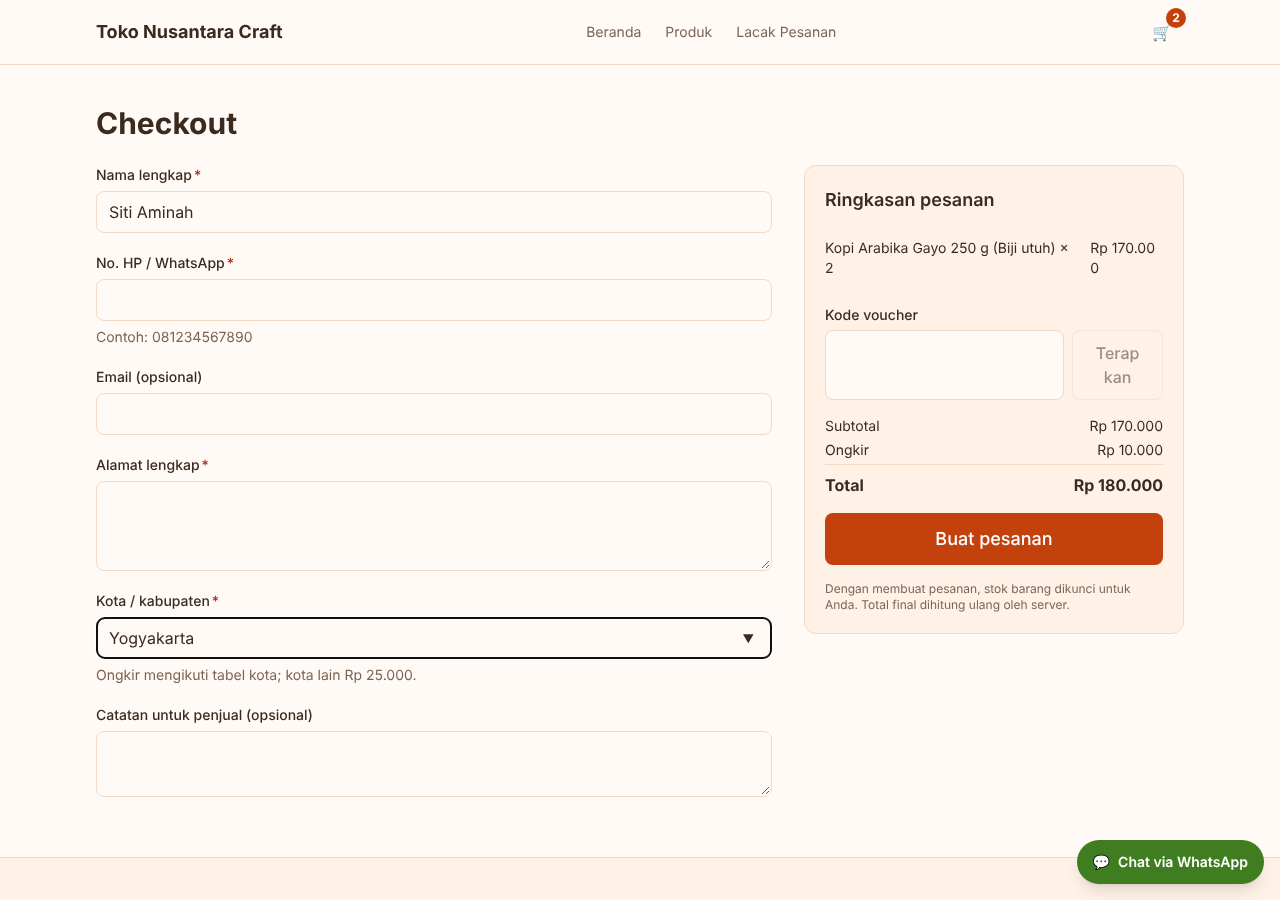
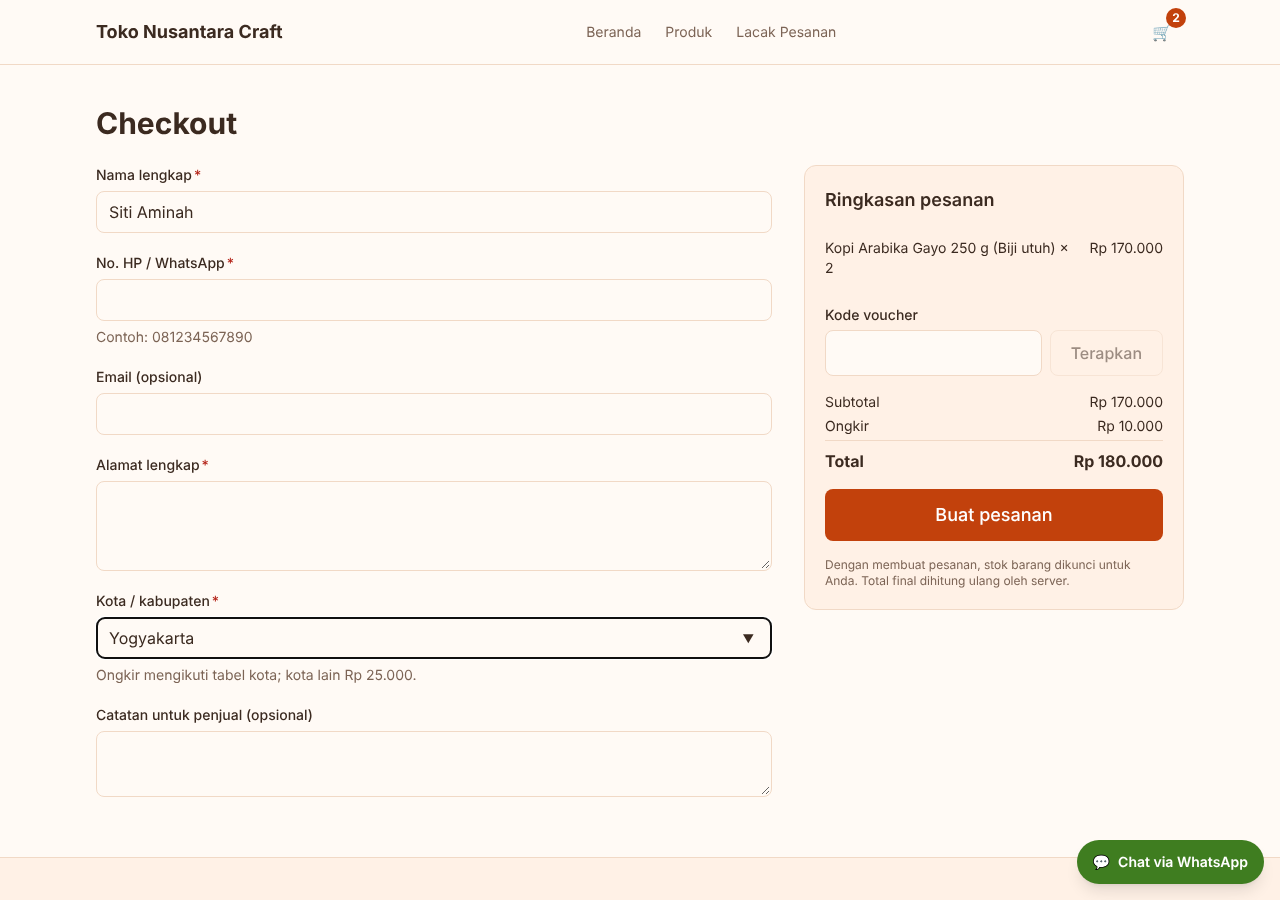
[T8] WIP: README root & toko, perbaikan UI nilai rupiah/tombol Terapkan, screenshot toko
Claude-Session: https://claude.ai/code/session_018KHqGbbH4XiAuYR3s9DrdD

Changed region(s): [[0.625, 0.4356, 0.9062, 0.6844], [0.8125, 0.3733, 0.9062, 0.4044], [0.8438, 0.2489, 0.9062, 0.28]]

diff --git a/apps/toko-online/components/CheckoutForm.tsx b/apps/toko-online/components/CheckoutForm.tsx
@@ -102,18 +102,18 @@ function Konfirmasi({ s }: { s: Sukses }) {
                 {b.produkNama}
                 {b.varianNama !== "Standar" && ` (${b.varianNama})`} × {b.qty}
               </span>
-              <span>{rupiah(b.jumlah)}</span>
+              <span className="whitespace-nowrap">{rupiah(b.jumlah)}</span>
             </li>
           ))}
         </ul>
         <dl className="mt-3 space-y-1 text-sm">
           <div className="flex justify-between">
             <dt>Subtotal</dt>
-            <dd>{rupiah(s.subtotal)}</dd>
+            <dd className="whitespace-nowrap">{rupiah(s.subtotal)}</dd>
           </div>
           <div className="flex justify-between">
             <dt>Ongkir</dt>
-            <dd>{rupiah(s.ongkir)}</dd>
+            <dd className="whitespace-nowrap">{rupiah(s.ongkir)}</dd>
           </div>
           {s.diskon > 0 && (
             <div className="flex justify-between">
@@ -123,7 +123,9 @@ function Konfirmasi({ s }: { s: Sukses }) {
           )}
           <div className="flex justify-between text-base font-bold text-fg">
             <dt>Total bayar</dt>
-            <dd data-testid="total-bayar">{rupiah(s.total)}</dd>
+            <dd data-testid="total-bayar" className="whitespace-nowrap">
+              {rupiah(s.total)}
+            </dd>
           </div>
         </dl>
       </section>
@@ -418,7 +420,9 @@ export function CheckoutForm({ kotaOpsi, ongkirBawaan }: Props) {
                       <span className="block text-danger">Stok tersisa {b.stok}</span>
                     )}
                   </span>
-                  <span>{b.status === "ok" ? rupiah(b.jumlah) : "—"}</span>
+                  <span className="whitespace-nowrap">
+                    {b.status === "ok" ? rupiah(b.jumlah) : "—"}
+                  </span>
                 </li>
               ))}
             </ul>
@@ -433,11 +437,12 @@ export function CheckoutForm({ kotaOpsi, ongkirBawaan }: Props) {
                   onChange={(e) => setVoucherIsi(e.target.value)}
                   maxLength={32}
                   autoComplete="off"
-                  className={input}
+                  className={`${input} min-w-0`}
                 />
                 <Button
                   type="button"
                   variant="secondary"
+                  className="shrink-0 whitespace-nowrap"
                   onClick={() => setVoucher(voucherIsi.trim())}
                   disabled={!voucherIsi.trim()}
                 >
@@ -469,11 +474,15 @@ export function CheckoutForm({ kotaOpsi, ongkirBawaan }: Props) {
             <dl className="space-y-1 text-sm" aria-live="polite">
               <div className="flex justify-between">
                 <dt>Subtotal</dt>
-                <dd data-testid="co-subtotal">{rupiah(ringkasan.subtotal)}</dd>
+                <dd data-testid="co-subtotal" className="whitespace-nowrap">
+                  {rupiah(ringkasan.subtotal)}
+                </dd>
               </div>
               <div className="flex justify-between">
                 <dt>Ongkir</dt>
-                <dd data-testid="co-ongkir">{rupiah(ringkasan.ongkir)}</dd>
+                <dd data-testid="co-ongkir" className="whitespace-nowrap">
+                  {rupiah(ringkasan.ongkir)}
+                </dd>
               </div>
               {ringkasan.diskon > 0 && (
                 <div className="flex justify-between text-success">
@@ -483,7 +492,9 @@ export function CheckoutForm({ kotaOpsi, ongkirBawaan }: Props) {
               )}
               <div className="flex justify-between border-t border-border pt-2 text-base font-bold text-fg">
                 <dt>Total</dt>
-                <dd data-testid="co-total">{rupiah(ringkasan.total)}</dd>
+                <dd data-testid="co-total" className="whitespace-nowrap">
+                  {rupiah(ringkasan.total)}
+                </dd>
               </div>
             </dl>
             {ringkasan.masalah

diff --git a/apps/toko-online/components/FormLacak.tsx b/apps/toko-online/components/FormLacak.tsx
@@ -179,18 +179,18 @@ export function FormLacak({ kodeAwal = "" }: { kodeAwal?: string }) {
                     {b.produkNama}
                     {b.varianNama !== "Standar" && ` (${b.varianNama})`} × {b.qty}
                   </span>
-                  <span>{rupiah(b.lineTotal)}</span>
+                  <span className="whitespace-nowrap">{rupiah(b.lineTotal)}</span>
                 </li>
               ))}
             </ul>
             <dl className="mt-3 space-y-1 text-sm">
               <div className="flex justify-between">
                 <dt>Subtotal</dt>
-                <dd>{rupiah(pesanan.subtotal)}</dd>
+                <dd className="whitespace-nowrap">{rupiah(pesanan.subtotal)}</dd>
               </div>
               <div className="flex justify-between">
                 <dt>Ongkir</dt>
-                <dd>{rupiah(pesanan.ongkir)}</dd>
+                <dd className="whitespace-nowrap">{rupiah(pesanan.ongkir)}</dd>
               </div>
               {pesanan.diskon > 0 && (
                 <div className="flex justify-between">
@@ -200,7 +200,9 @@ export function FormLacak({ kodeAwal = "" }: { kodeAwal?: string }) {
               )}
               <div className="flex justify-between text-base font-bold text-fg">
                 <dt>Total</dt>
-                <dd data-testid="hasil-total">{rupiah(pesanan.total)}</dd>
+                <dd data-testid="hasil-total" className="whitespace-nowrap">
+                  {rupiah(pesanan.total)}
+                </dd>
               </div>
             </dl>
           </div>

diff --git a/apps/toko-online/app/admin/(panel)/pesanan/[id]/page.tsx b/apps/toko-online/app/admin/(panel)/pesanan/[id]/page.tsx
@@ -157,18 +157,18 @@ export default async function DetailPesanan({
                     {i.productName}
                     {i.variantName !== "Standar" && ` (${i.variantName})`} × {i.qty}
                   </span>
-                  <span>{rupiah(i.lineTotal)}</span>
+                  <span className="whitespace-nowrap">{rupiah(i.lineTotal)}</span>
                 </li>
               ))}
             </ul>
             <dl className="mt-3 space-y-1 text-sm">
               <div className="flex justify-between">
                 <dt>Subtotal</dt>
-                <dd>{rupiah(o.subtotal)}</dd>
+                <dd className="whitespace-nowrap">{rupiah(o.subtotal)}</dd>
               </div>
               <div className="flex justify-between">
                 <dt>Ongkir</dt>
-                <dd>{rupiah(o.shippingCost)}</dd>
+                <dd className="whitespace-nowrap">{rupiah(o.shippingCost)}</dd>
               </div>
               {o.discount > 0 && (
                 <div className="flex justify-between">
@@ -178,7 +178,9 @@ export default async function DetailPesanan({
               )}
               <div className="flex justify-between text-base font-bold text-fg">
                 <dt>Total</dt>
-                <dd data-testid="total">{rupiah(o.total)}</dd>
+                <dd data-testid="total" className="whitespace-nowrap">
+                  {rupiah(o.total)}
+                </dd>
               </div>
             </dl>
           </section>

diff --git a/apps/toko-online/app/admin/(panel)/pesanan/[id]/invoice/page.tsx b/apps/toko-online/app/admin/(panel)/pesanan/[id]/invoice/page.tsx
@@ -103,11 +103,11 @@ export default async function Invoice({ params }: { params: Promise<{ id: string
       <dl className="ml-auto mt-4 w-64 space-y-1 text-sm">
         <div className="flex justify-between">
           <dt>Subtotal</dt>
-          <dd>{rupiah(o.subtotal)}</dd>
+          <dd className="whitespace-nowrap">{rupiah(o.subtotal)}</dd>
         </div>
         <div className="flex justify-between">
           <dt>Ongkir</dt>
-          <dd>{rupiah(o.shippingCost)}</dd>
+          <dd className="whitespace-nowrap">{rupiah(o.shippingCost)}</dd>
         </div>
         {o.discount > 0 && (
           <div className="flex justify-between">
@@ -117,7 +117,9 @@ export default async function Invoice({ params }: { params: Promise<{ id: string
         )}
         <div className="flex justify-between border-t border-gray-400 pt-1 text-base font-bold">
           <dt>Total</dt>
-          <dd data-testid="inv-total">{rupiah(o.total)}</dd>
+          <dd data-testid="inv-total" className="whitespace-nowrap">
+            {rupiah(o.total)}
+          </dd>
         </div>
       </dl>
       {!lunas && o.status !== "DIBATALKAN" && s.rekening.length > 0 && (

diff --git a/apps/toko-online/components/KeranjangView.tsx b/apps/toko-online/components/KeranjangView.tsx
@@ -241,7 +241,9 @@ export function KeranjangView() {
           </div>
           <div className="flex justify-between text-base font-bold text-fg">
             <dt>Subtotal</dt>
-            <dd data-testid="subtotal">{rupiah(subtotal)}</dd>
+            <dd data-testid="subtotal" className="whitespace-nowrap">
+              {rupiah(subtotal)}
+            </dd>
           </div>
         </dl>
         <p className="mt-2 text-xs text-muted">

diff --git a/README.md b/README.md
@@ -1,28 +1,66 @@
 # 5 Template Website Siap Jual
 
-Monorepo berisi 5 template website berbahasa Indonesia yang siap pakai atau tinggal dimodifikasi:
+Monorepo berisi **5 template website berbahasa Indonesia** yang siap pakai atau tinggal dimodifikasi. Semua brand, nama, produk, rekening, dan data pada template ini **fiktif** (gambar demo = SVG placeholder buatan sendiri). Dibangun dengan Next.js 16, React 19, TypeScript, Tailwind CSS v4, Prisma + SQLite (app ber-DB), dan diuji dengan Vitest + Playwright.
 
-| App | Port |
-|---|---|
-| `apps/landing-page` | 3001 |
-| `apps/company-profile` | 3002 |
-| `apps/undangan` | 3003 |
-| `apps/sekolah` | 3004 |
-| `apps/toko-online` | 3005 |
+| App | Port | Cocok untuk | Fitur utama | Database | Panel admin |
+|---|---|---|---|---|---|
+| [`apps/landing-page`](apps/landing-page) | 3001 | Produk/jasa tunggal | Hero, fitur, paket harga, testimoni, FAQ, form lead (honeypot + rate limit), WhatsApp | SQLite (lead) | Ya (password) — daftar lead + ekspor CSV |
+| [`apps/company-profile`](apps/company-profile) | 3002 | Perusahaan/agensi | Layanan, portofolio (filter), blog Markdown, kontak, **dwibahasa ID/EN**, SEO lengkap | SQLite (pesan) | Ya (password) — pesan masuk + CSV |
+| [`apps/undangan`](apps/undangan) | 3003 | Pernikahan, aqiqah, khitan | Cover, mempelai, acara + countdown, galeri, RSVP, ucapan, amplop digital, 3 tema | SQLite | Ya (password) — tamu/RSVP/ucapan |
+| [`apps/sekolah`](apps/sekolah) | 3004 | Sekolah/pesantren/yayasan | Profil, guru, berita, agenda, galeri, **PPDB online**, **donasi/infaq**, CRUD konten | SQLite | Ya (NextAuth, peran ADMIN/EDITOR) |
+| [`apps/toko-online`](apps/toko-online) | 3005 | Toko UMKM | Katalog (filter/cari/urut), varian & stok, keranjang, checkout dengan voucher & ongkir, lacak pesanan, bukti bayar, invoice, CSV | SQLite | Ya (NextAuth, peran ADMIN/STAFF) |
 
-Paket bersama: `packages/config`, `packages/ui`, `packages/core`.
+Paket bersama: [`packages/config`](packages/config) (tsconfig, ESLint, Prettier, Playwright, tema), [`packages/ui`](packages/ui) (komponen UI), [`packages/core`](packages/core) (validasi, sanitasi, rate limit, honeypot, unggahan aman, header keamanan).
+
+## Tampilan
+
+| Landing Page | Company Profile | Undangan |
+|---|---|---|
+| ![Landing page](apps/landing-page/docs/screenshots/desktop-hero.png) | ![Company profile](apps/company-profile/docs/screenshots/beranda-id.png) | ![Undangan](apps/undangan/docs/screenshots/cover.png) |
+
+| Sekolah | Toko Online | Admin Toko |
+|---|---|---|
+| ![Sekolah](apps/sekolah/docs/screenshots/beranda.png) | ![Toko online](apps/toko-online/docs/screenshots/beranda.png) | ![Admin toko](apps/toko-online/docs/screenshots/admin-dashboard.png) |
+
+Screenshot lengkap tiap app ada di `apps/<app>/docs/screenshots/` dan ditampilkan di README masing-masing.
 
 ## Memulai
 
+Prasyarat: Node 22 (`nvm use`), npm 10.
+
 ```bash
-nvm use          # Node 22
 npm ci
-npm run setup    # prisma generate + migrate + seed (app ber-DB)
-npm run dev:all  # jalankan semua app (3001–3005)
+# Salin & isi env tiap app (password admin ≥ 12 karakter, NEXTAUTH_SECRET ≥ 32 karakter acak):
+for a in landing-page company-profile undangan sekolah toko-online; do cp apps/$a/.env.example apps/$a/.env; done
+#   buat rahasia:  node -e "console.log(require('crypto').randomBytes(32).toString('base64url'))"
+npm run setup      # prisma generate + migrate + seed demo (app ber-DB)
+npm run dev:all    # jalankan semua app: http://localhost:3001 … 3005
 ```
 
-Skrip lain: `build:all`, `test`, `test:e2e`, `test:all`, `lint`, `typecheck`. Semuanya melewati app yang belum ada.
+Skrip lain (semuanya melewati app yang belum ada): `npm run build:all`, `npm test` (unit), `npm run test:e2e` (Playwright), `npm run test:all` (keduanya), `npm run lint`, `npm run typecheck`, `npm run format:check`.
 
-Panduan memodifikasi template: [`docs/CARA-MODIF.md`](docs/CARA-MODIF.md). Rencana pengerjaan di `PLAN.md`, status di `PROGRESS.md`.
+## Akun demo
 
-> Semua brand dan data pada template ini fiktif.
+Tidak ada kredensial bawaan: akun dibuat dari env saat `npm run setup`, dan login admin otomatis **nonaktif** bila rahasianya kosong (fail closed).
+
+| App | Login admin | Diatur di `.env` |
+|---|---|---|
+| Landing Page | `/admin/login` — hanya password | `ADMIN_PASSWORD`, `ADMIN_SESSION_SECRET` (≥ 32 karakter) |
+| Company Profile | `/admin/login` — hanya password | `ADMIN_PASSWORD`, `ADMIN_SESSION_SECRET` |
+| Undangan | `/admin` — hanya password | `ADMIN_PASSWORD`, `ADMIN_SESSION_SECRET` |
+| Sekolah | `/admin/login` — `admin@sekolah.example` (ADMIN), `editor@sekolah.example` (EDITOR) | `ADMIN_PASSWORD`, `EDITOR_PASSWORD`, `NEXTAUTH_SECRET` |
+| Toko Online | `/admin/login` — `admin@toko.example` (ADMIN), `staf@toko.example` (STAFF) | `ADMIN_PASSWORD`, `STAFF_PASSWORD`, `NEXTAUTH_SECRET` |
+
+Voucher demo toko: `HEMAT10`, `POTONG25K` (lihat [README toko](apps/toko-online/README.md)).
+
+## Keamanan & kualitas (ringkas)
+
+- Header keamanan (CSP ketat, `nosniff`, `frame-ancestors 'none'`, …) di semua app; tidak ada permintaan ke domain luar (font lokal/system, gambar SVG lokal).
+- Validasi masukan di server (Zod), sanitasi teks, honeypot + rate limit pada form publik, unggahan divalidasi **magic bytes** (SVG/GIF ditolak), CSV anti-formula-injection.
+- Admin: sesi dicek ulang ke database di tiap halaman/aksi, hak dari peran di DB, anti open redirect, anti-enumerasi akun.
+- Toko: harga, ongkir, diskon, dan total **dihitung ulang di server** (klien tidak dipercaya); stok & voucher dikunci atomik.
+- Tiap app punya e2e (Playwright) untuk: tanpa error konsol/CSP, tanpa overflow di 360/768/1280 px, aksesibilitas (heading, landmark, label, fokus, kontras WCAG AA), dan matriks otorisasi.
+
+Panduan memodifikasi template: [`docs/CARA-MODIF.md`](docs/CARA-MODIF.md). Rencana pengerjaan: `PLAN.md`; status: `PROGRESS.md`. Lisensi aset demo: [`CREDITS.md`](CREDITS.md).
+
+> Hasil CI GitHub dicek manual oleh pemilik repo.

diff --git a/apps/toko-online/README.md b/apps/toko-online/README.md
@@ -2,7 +2,19 @@
 
 Template toko online berbahasa Indonesia. Nama toko, produk, rekening, dan seluruh data demo **fiktif**.
 
-> Status: T1–T7 — skema + seed, **katalog**, **keranjang**, **checkout**, **lacak pesanan**, **admin produk**, **admin pesanan & pengaturan**. QA final & integrasi (T8) menyusul.
+> Status: **lengkap** (T1–T8) — katalog, keranjang, checkout, lacak pesanan, admin produk, admin pesanan & pengaturan, dan QA final.
+
+## Tampilan
+
+| Beranda | Mobile |
+|---|---|
+| ![Beranda](docs/screenshots/beranda.png) | ![Mobile](docs/screenshots/mobile-beranda.png) |
+| ![Katalog](docs/screenshots/katalog.png) | ![Detail produk](docs/screenshots/detail-produk.png) |
+| ![Keranjang](docs/screenshots/keranjang.png) | ![Checkout](docs/screenshots/checkout.png) |
+| ![Dasbor admin](docs/screenshots/admin-dashboard.png) | ![Kelola produk](docs/screenshots/admin-produk.png) |
+| ![Detail pesanan](docs/screenshots/admin-pesanan.png) | ![Pengaturan toko](docs/screenshots/admin-pengaturan.png) |
+
+Membuat ulang: `cd apps/toko-online && SCREENSHOTS=1 npx playwright test e2e/screenshots.spec.ts --project=fitur`.
 
 ## Menjalankan
 
@@ -137,6 +149,27 @@ Jaminan integritas:
 - Pengaturan: semua nilai divalidasi ulang di server dan JSON dibangun dari data tervalidasi (bukan dari klien); nama kota dinormalkan & dicek unik, nama berbahaya (`__proto__`, `constructor`, …) ditolak; WA dinormalkan ke `62…`; QRIS lewat validasi unggahan yang sama dengan gambar produk; berkas QRIS lama dibersihkan bila tak dirujuk.
 - Pencarian admin: wildcard (`%`, `_`, `\`) dicari sebagai teks biasa; kata kunci yang hanya berisi wildcard tidak cocok apa pun.
 - Voucher dikelola lewat seed/DB (UI voucher di luar cakupan template ini).
+
+## Akun demo
+
+Akun dibuat oleh `npm run setup` **hanya bila** password diisi di `.env` (min. 12 karakter; tidak ada password bawaan):
+
+| Peran | Email | Password dari |
+|---|---|---|
+| ADMIN | `admin@toko.example` (atau `ADMIN_EMAIL`) | `ADMIN_PASSWORD` |
+| STAFF | `staf@toko.example` | `STAFF_PASSWORD` |
+
+Voucher demo (seed): `HEMAT10` (10%, min Rp 100.000, maks Rp 50.000), `POTONG25K` (Rp 25.000, min Rp 200.000, kuota 100); `KADALUARSA`, `HABIS`, `NONAKTIF` untuk menguji penolakan.
+
+## Hasil QA final (T8)
+
+`e2e/qa.spec.ts` dan `e2e/admin-qa.spec.ts` merangkum pemeriksaan lintas-fitur:
+- **Halaman publik** (beranda, katalog + filter, semua produk seed, keranjang, checkout, lacak, login admin): 200 tanpa error konsol/CSP, tanpa aset 4xx, **tanpa permintaan ke domain luar**; gambar termuat, ber-`alt`, dimensi/rasio tetap (anti layout shift); tanpa overflow horizontal di 360/768/1280 px.
+- **Aksesibilitas**: satu `h1`, heading tanpa lompat, landmark banner/main/footer, `lang="id"`, id unik, semua tautan/tombol/input bernama, Tab pertama = lewati-konten, indikator fokus, target sentuh ≥ 24 px (termasuk tombol keranjang), **kontras WCAG AA untuk ketiga tema**.
+- **Keamanan**: manipulasi harga/qty/total di request (ditolak/dihitung ulang server), akses pesanan orang lain (kode + HP harus cocok; galat identik), unggah berbahaya (SVG/HTML/PHP/GIF/EXE, MIME palsu, > 2 MB) di produk, QRIS, dan bukti bayar, balapan stok & kuota voucher, CSRF (Origin/Content-Type), rate limit, header keamanan di semua jenis rute, tak ada kebocoran jejak teknologi di galat.
+- **Otorisasi**: matriks anonim / STAFF / ADMIN atas **semua** halaman dan route admin (termasuk metode tulis dan memutar ulang ID server action milik admin tanpa sesi).
+- **Alur lengkap lintas peran**: admin membuat produk → pembeli menelusuri, checkout dengan voucher, lacak, unggah bukti → admin verifikasi dan memproses hingga selesai → pembeli melihat "Selesai"; invoice, CSV, dasbor, dan stok konsisten. Plus alur pembatalan (stok & voucher kembali).
+- **Temuan QA & perbaikan** selama T8: tautan brand navbar hanya 21 px tinggi (< 24 px) → 44 px; nilai rupiah dan tombol "Terapkan" terpecah di kolom sempit karena `overflow-wrap: anywhere` global → `whitespace-nowrap`.
 
 ## Pengujian
 
